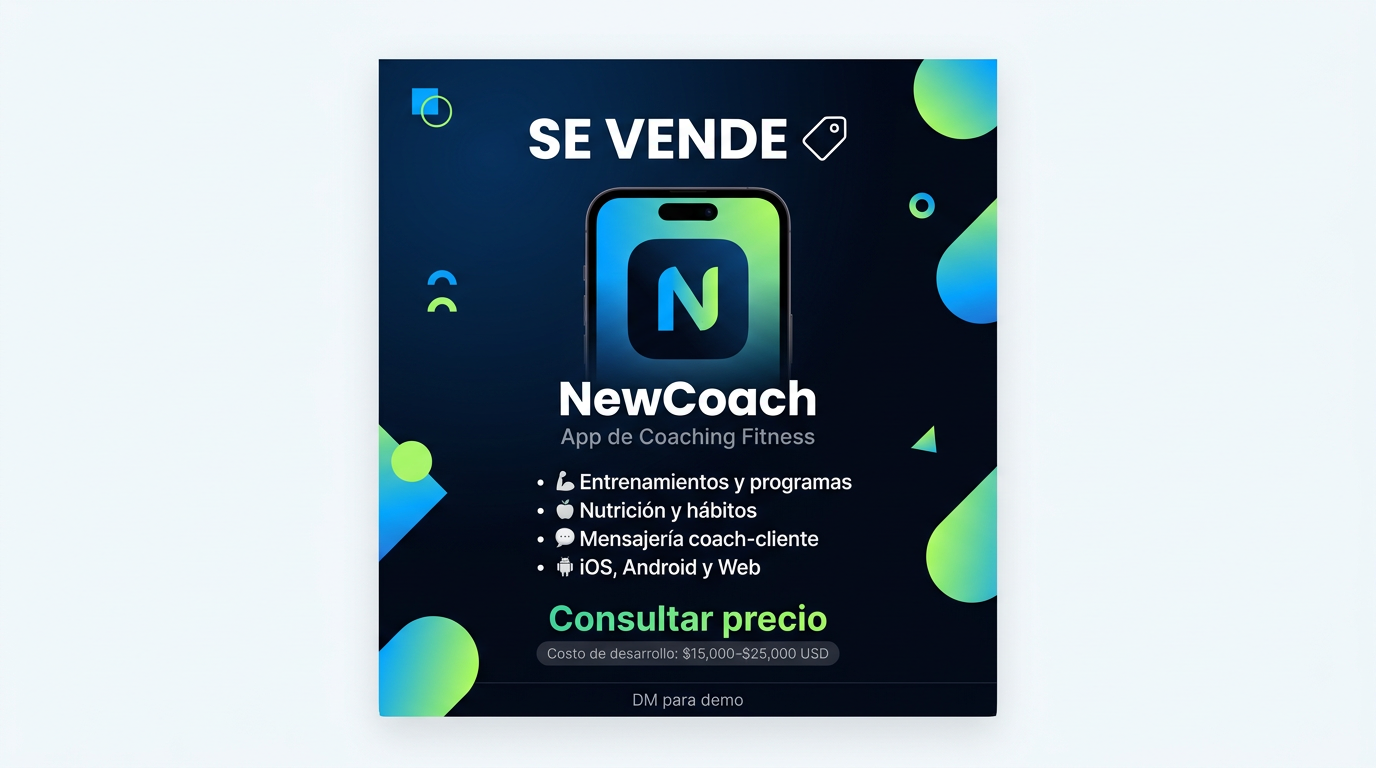
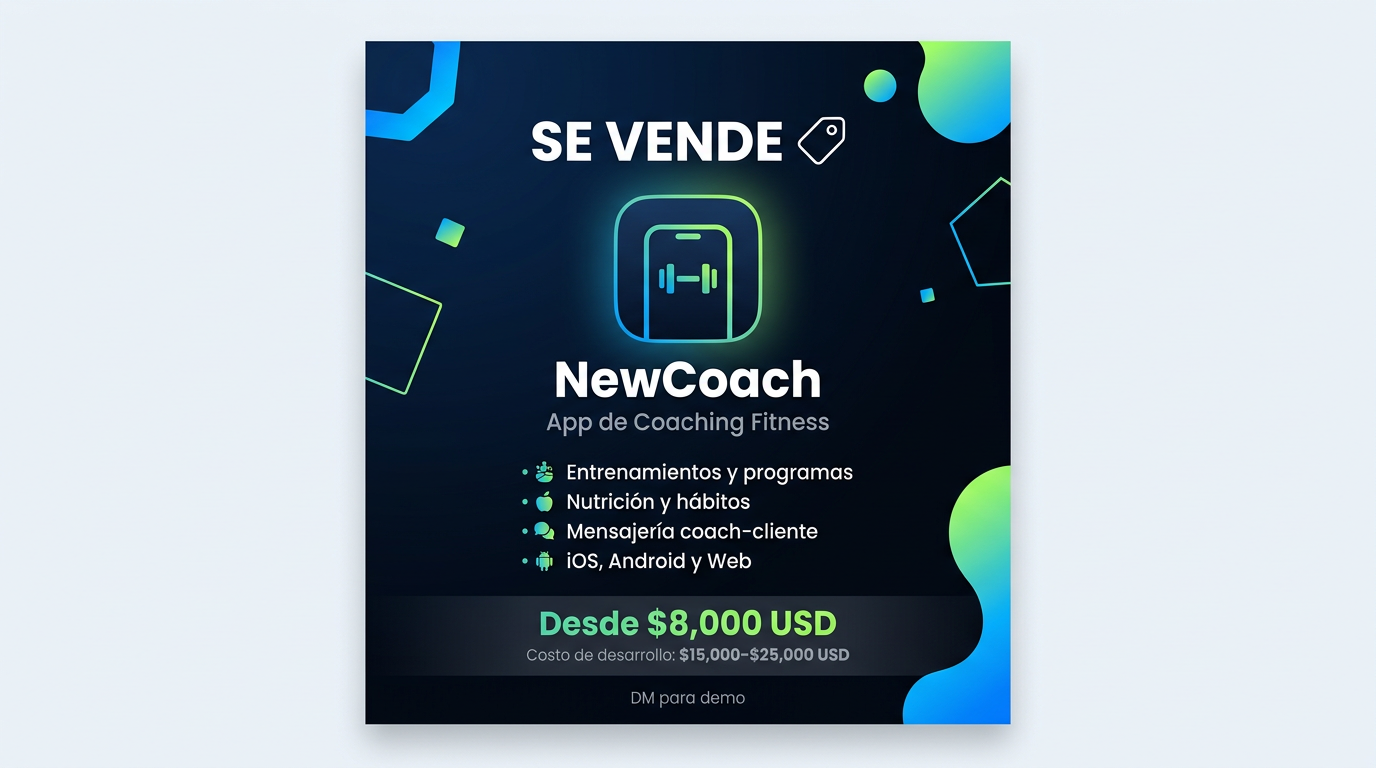
Update image and doc with $8K starting price + dev cost anchor
Clear value proposition: $8K vs $15-25K rebuild cost

Made-with: Cursor

Changed region(s): [[0.25, 0.0312, 0.75, 1.0], [0.6562, 0.5625, 0.6875, 0.5938]]

diff --git a/NewCoach-Sale-Prospectus.md b/NewCoach-Sale-Prospectus.md
@@ -151,8 +151,8 @@ Aplicación completa para entrenadores personales y sus clientes.
 - Startups de fitness
 - Agencias de desarrollo
 
+**Desde $8,000 USD**
 **Costo de desarrollo:** $15,000–$25,000 USD
-**Precio:** Consultar por DM
 
 DM para demo en vivo o más información.
 
